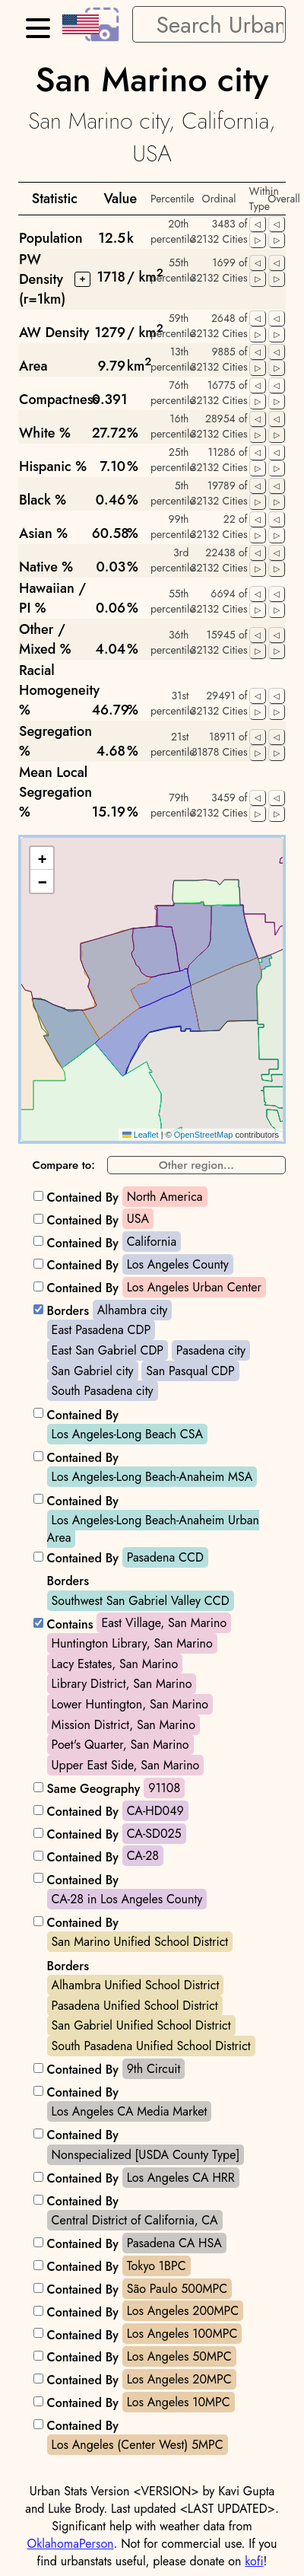
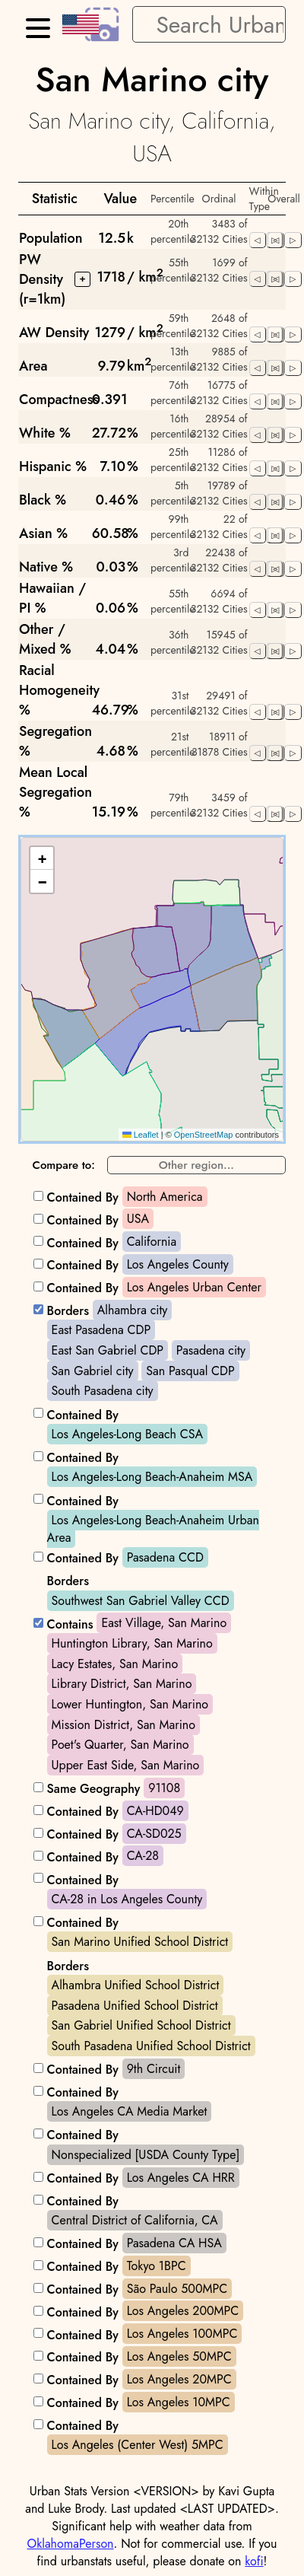
Never wrap pointers (#632)
Closes #631

Changed region(s): [[0.84, 0.0931, 0.96, 0.3102], [0.99, 0.1551, 1.0, 0.1861]]

diff --git a/react/src/components/table.tsx b/react/src/components/table.tsx
@@ -744,7 +744,7 @@ function PointerButtonsIndex(props: { ordinal: number, statpath: string, type: s
     const curr_universe = useUniverse()
     const get_data = async (): Promise<string[]> => await load_ordering(curr_universe, props.statpath, props.type)
     return (
-        <span style={{ margin: 'auto' }}>
+        <span style={{ margin: 'auto', whiteSpace: 'nowrap' }}>
             <PointerButtonIndex
                 get_data={get_data}
                 original_pos={props.ordinal}
